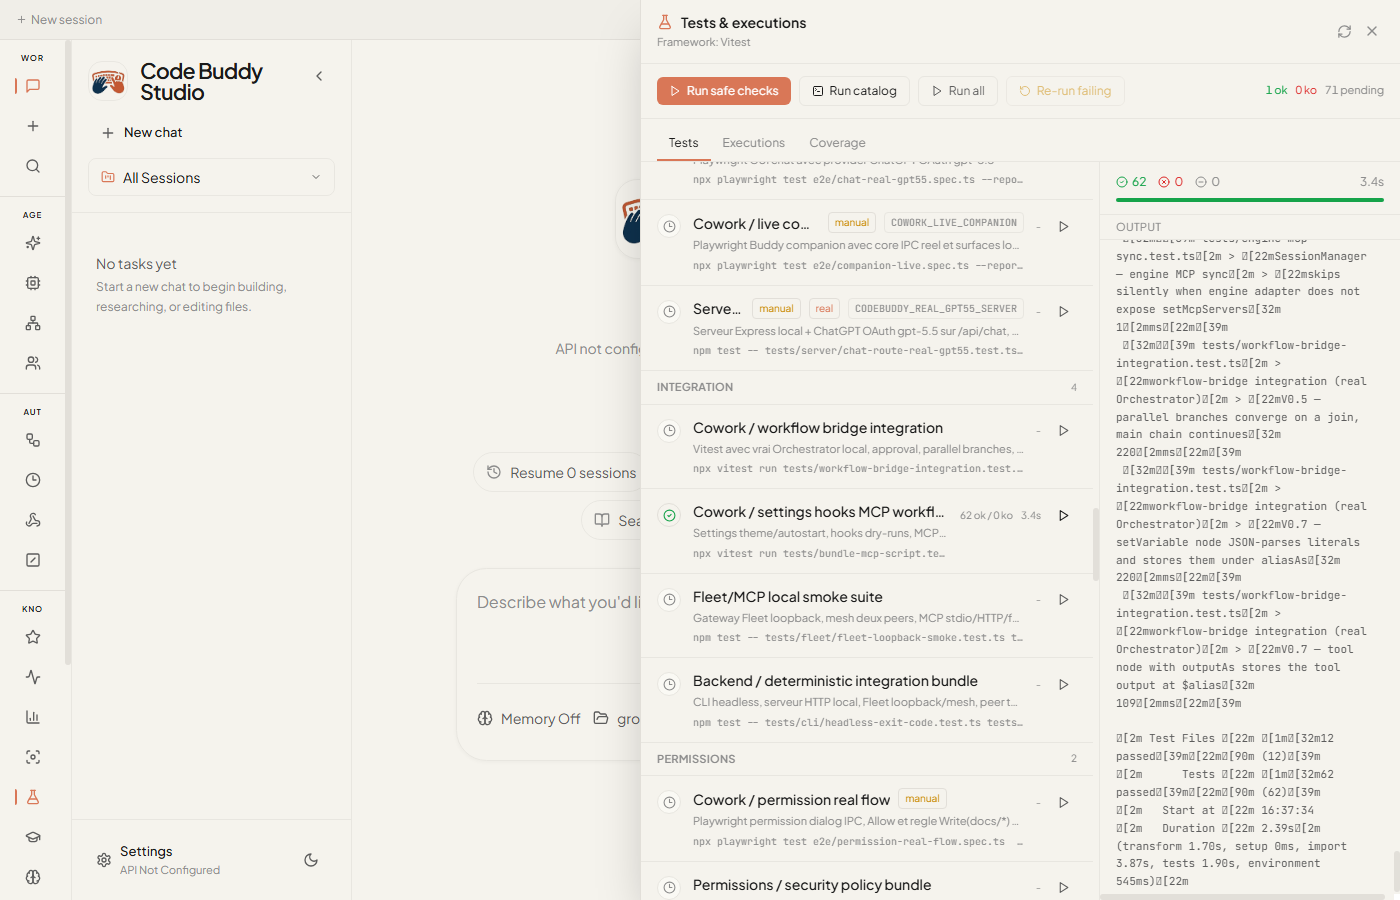
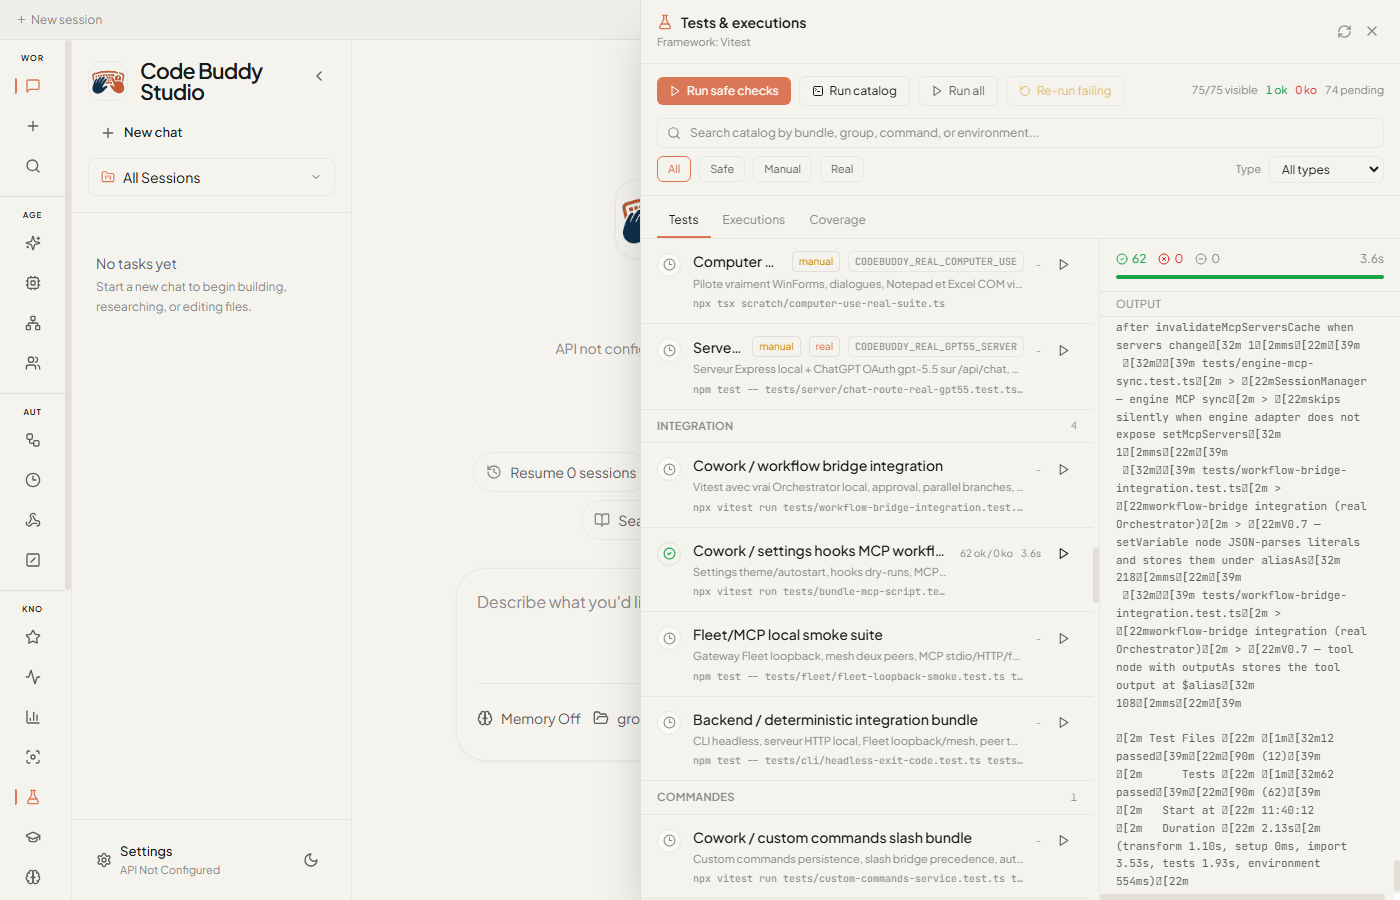
fix(test): keep Cowork backend settings proof on IPC
The Cowork settings/hooks/MCP/workflows bundle was failing from the real Tests & executions window because SettingsCodeBuddy moved backend checks behind the codebuddy IPC bridge, while its regression test still mocked direct fetch calls. The test now drives the current IPC contract for connection probes, model discovery, local auto-start, and remote endpoint failure handling.

Constraint: SettingsCodeBuddy no longer calls fetch directly for Code Buddy health or model discovery.
Rejected: Reintroduce direct fetch in the component | the IPC bridge is the production contract used by Electron.
Confidence: high
Scope-risk: narrow
Directive: Keep SettingsCodeBuddy tests aligned to window.electronAPI.codebuddy probe/listModels contracts.
Tested: cd cowork && npx vitest run tests/settings-codebuddy-autostart.test.ts --reporter=verbose
Tested: cd cowork && npx vitest run tests/bundle-mcp-script.test.ts tests/engine-mcp-sync.test.ts tests/hooks-bridge-agent-dryrun.test.ts tests/hooks-bridge-events.test.ts tests/hooks-bridge-http-dryrun.test.ts tests/hooks-bridge-prompt-dryrun.test.ts tests/mcp-manager-env-merge.test.ts tests/mcp-tool-name.test.ts tests/settings-codebuddy-autostart.test.ts tests/theme-settings-persistence.test.ts tests/workflow-bridge-compilation.test.ts tests/workflow-bridge-integration.test.ts --reporter=verbose
Tested: cd cowork && npx playwright test e2e/test-runner-settings-hooks-mcp-workflows-bundle.spec.ts --reporter=list --timeout=260000
[…]

diff --git a/cowork/tests/settings-codebuddy-autostart.test.ts b/cowork/tests/settings-codebuddy-autostart.test.ts
@@ -10,11 +10,8 @@ import { SettingsCodeBuddy } from '../src/renderer/components/settings/SettingsC
 
 (globalThis as unknown as { IS_REACT_ACT_ENVIRONMENT?: boolean }).IS_REACT_ACT_ENVIRONMENT = true;
 
-function jsonResponse(body: unknown, status = 200): Response {
-  return new Response(JSON.stringify(body), {
-    status,
-    headers: { 'Content-Type': 'application/json' },
-  });
+function setElectronApi(api: unknown) {
+  (window as unknown as { electronAPI?: unknown }).electronAPI = api;
 }
 
 describe('SettingsCodeBuddy auto-start connection test', () => {
@@ -39,26 +36,25 @@ describe('SettingsCodeBuddy auto-start connection test', () => {
       websocket: true,
       error: null,
     });
-    (window as unknown as {
-      electronAPI?: {
-        config: { get: () => Promise<Record<string, unknown>> };
-        server: { start: typeof serverStart };
-      };
-    }).electronAPI = {
+    const probeConnection = vi.fn()
+      .mockRejectedValueOnce(new Error('Failed to fetch'))
+      .mockResolvedValueOnce({
+        version: '1.0.0-test',
+        models: ['gpt-test'],
+        tools: 110,
+      });
+
+    setElectronApi({
+      codebuddy: {
+        probeConnection,
+      },
       config: {
         get: vi.fn().mockResolvedValue({}),
       },
       server: {
         start: serverStart,
       },
-    };
-
-    const fetchMock = vi.fn()
-      .mockRejectedValueOnce(new Error('Failed to fetch'))
-      .mockResolvedValueOnce(jsonResponse({ version: '1.0.0-test' }))
-      .mockResolvedValueOnce(jsonResponse({ data: [{ id: 'gpt-test' }] }))
-      .mockResolvedValueOnce(jsonResponse({ toolCount: 110 }));
-    vi.stubGlobal('fetch', fetchMock);
+    });
 
     const target = document.createElement('div');
     document.body.appendChild(target);
@@ -82,10 +78,11 @@ describe('SettingsCodeBuddy auto-start connection test', () => {
     });
 
     expect(serverStart).toHaveBeenCalledWith({ host: '127.0.0.1', port: 3000 });
-    expect(fetchMock).toHaveBeenCalledWith(
-      'http://localhost:3000/api/health',
-      expect.objectContaining({ signal: expect.any(AbortSignal) }),
-    );
+    expect(probeConnection).toHaveBeenCalledTimes(2);
+    expect(probeConnection).toHaveBeenLastCalledWith({
+      endpoint: 'http://localhost:3000',
+      apiKey: undefined,
+    });
     expect(target.textContent).toContain('Connected to Code Buddy');
     expect(target.textContent).toContain('Started local Code Buddy backend automatically.');
     expect(target.textContent).toContain('Version: 1.0.0-test');
@@ -93,14 +90,15 @@ describe('SettingsCodeBuddy auto-start connection test', () => {
 
   it('loads remote models into the override selector and saves the selected model', async () => {
     const configSave = vi.fn().mockResolvedValue(undefined);
-    (window as unknown as {
-      electronAPI?: {
-        config: {
-          get: () => Promise<Record<string, unknown>>;
-          save: typeof configSave;
-        };
-      };
-    }).electronAPI = {
+    const listModels = vi.fn().mockResolvedValue([
+      { id: 'gpt-remote' },
+      { id: 'qwen-remote:32b' },
+    ]);
+
+    setElectronApi({
+      codebuddy: {
+        listModels,
+      },
       config: {
         get: vi.fn().mockResolvedValue({
           codebuddy: {
@@ -111,13 +109,7 @@ describe('SettingsCodeBuddy auto-start connection test', () => {
         }),
         save: configSave,
       },
-    };
-
-    const fetchMock = vi.fn()
-      .mockResolvedValueOnce(jsonResponse({ version: 'remote-test' }))
-      .mockResolvedValueOnce(jsonResponse({ data: [{ id: 'gpt-remote' }, { id: 'qwen-remote:32b' }] }))
-      .mockResolvedValueOnce(jsonResponse({ toolCount: 118 }));
-    vi.stubGlobal('fetch', fetchMock);
+    });
 
     const target = document.createElement('div');
     document.body.appendChild(target);
@@ -128,14 +120,18 @@ describe('SettingsCodeBuddy auto-start connection test', () => {
       await new Promise(resolve => setTimeout(resolve, 0));
     });
 
-    const testButton = Array.from(target.querySelectorAll('button'))
-      .find(button => button.textContent?.includes('Test Connection'));
-    expect(testButton).toBeTruthy();
+    const refreshModelsButton = target.querySelector('[data-testid="codebuddy-models-refresh"]');
+    expect(refreshModelsButton).toBeTruthy();
 
     await act(async () => {
-      Simulate.click(testButton as HTMLButtonElement);
+      Simulate.click(refreshModelsButton as HTMLButtonElement);
       await new Promise(resolve => setTimeout(resolve, 0));
       await new Promise(resolve => setTimeout(resolve, 0));
+    });
+
+    expect(listModels).toHaveBeenCalledWith({
+      endpoint: 'http://100.73.222.64:3000',
+      apiKey: undefined,
     });
 
     const modelSelect = target.querySelector('select') as HTMLSelectElement | null;
@@ -174,12 +170,12 @@ describe('SettingsCodeBuddy auto-start connection test', () => {
       websocket: true,
       error: null,
     });
-    (window as unknown as {
-      electronAPI?: {
-        config: { get: () => Promise<Record<string, unknown>> };
-        server: { start: typeof serverStart };
-      };
-    }).electronAPI = {
+    const probeConnection = vi.fn().mockRejectedValue(new Error('Failed to fetch'));
+
+    setElectronApi({
+      codebuddy: {
+        probeConnection,
+      },
       config: {
         get: vi.fn().mockResolvedValue({
           codebuddy: {
@@ -191,8 +187,7 @@ describe('SettingsCodeBuddy auto-start connection test', () => {
       server: {
         start: serverStart,
       },
-    };
-    vi.stubGlobal('fetch', vi.fn().mockRejectedValue(new Error('Failed to fetch')));
+    });
 
     const target = document.createElement('div');
     document.body.appendChild(target);